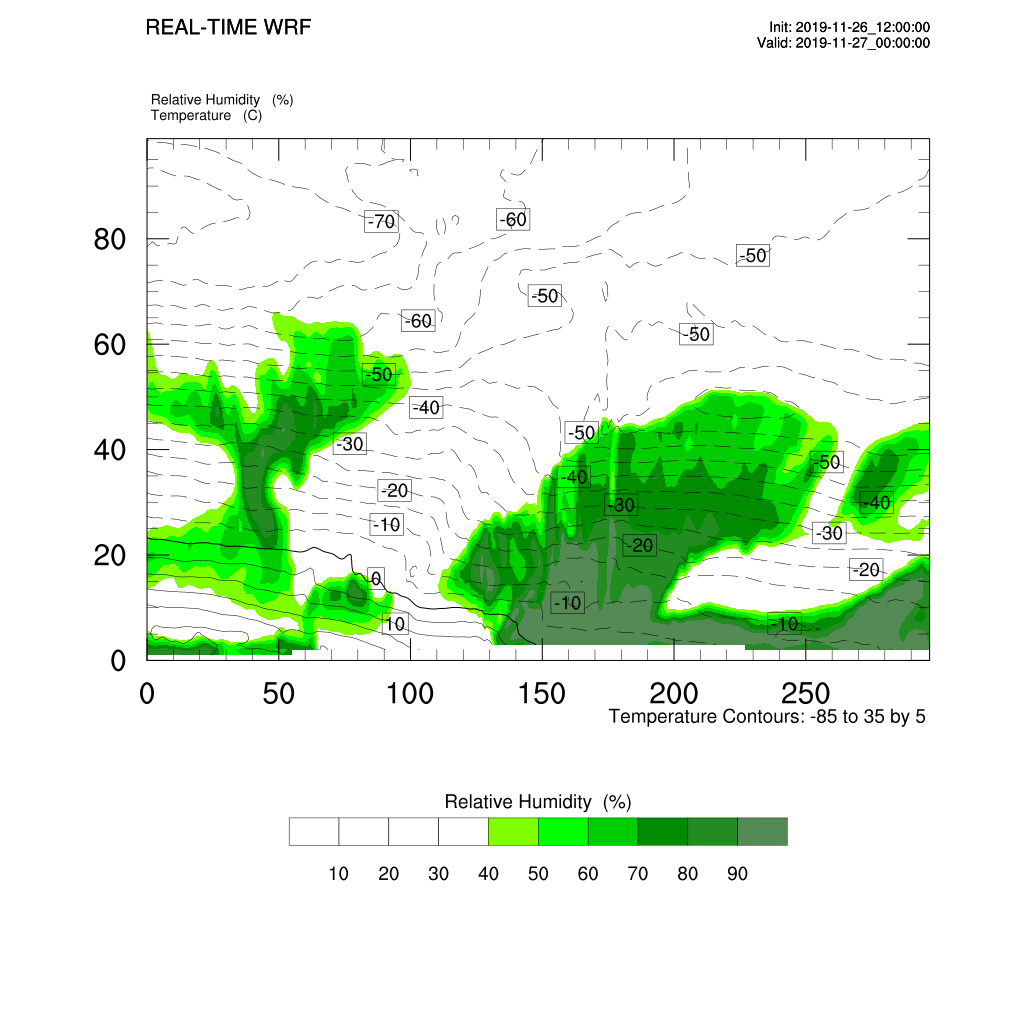
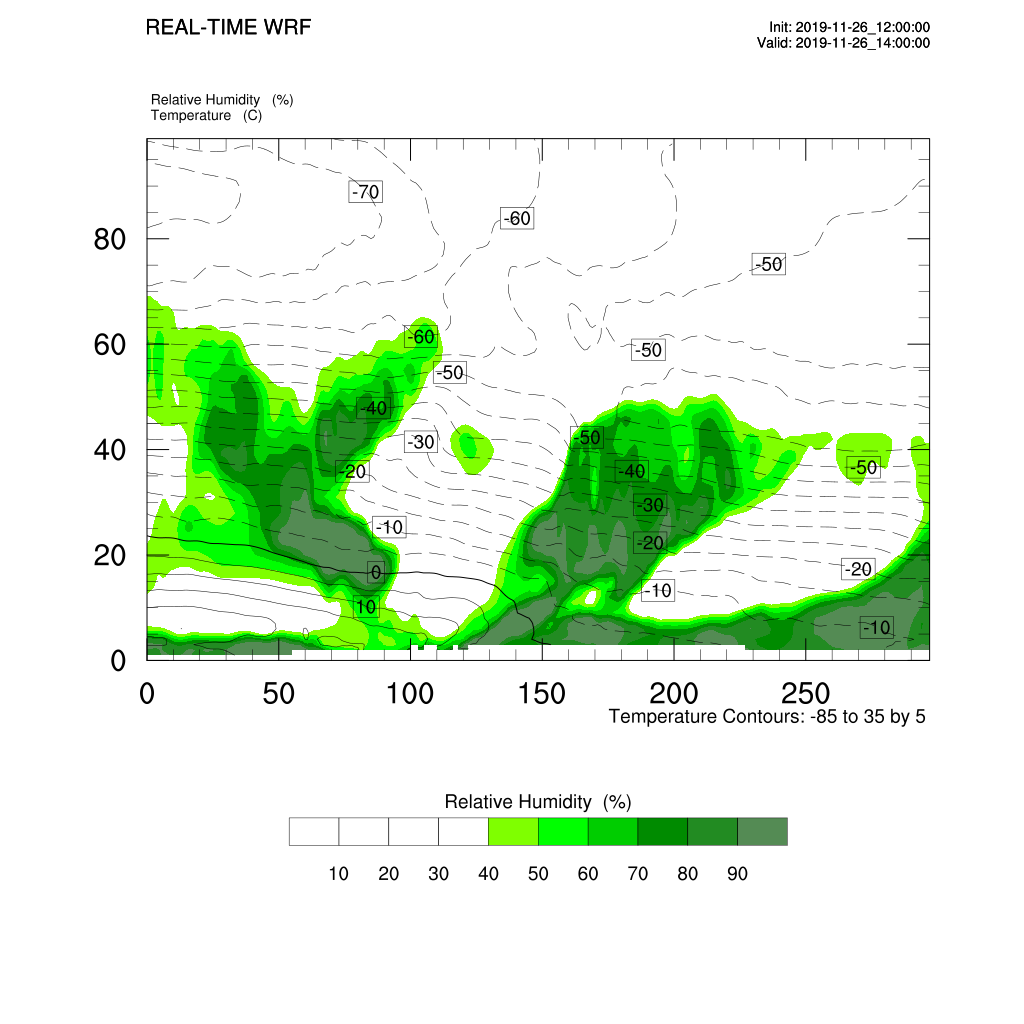
Updates for a large tutorial.
- WRF running on 1 instance, queue with mix instances c5.24xl+c5.18xl
- Adjust scaling down to 2 minutes instead of 10 minutes (6 hr forecast).
- Constraint PC config AZs.

diff --git a/content/03-hpc-aws-parallelcluster-workshop/04-configure-pc.md b/content/03-hpc-aws-parallelcluster-workshop/04-configure-pc.md
@@ -9,12 +9,13 @@ Now that you installed AWS ParallelCluster and set up the foundation, you can cr
 
 Generate the cluster with the following settings:
 
-- Head-node and compute nodes: [m5.2xlarge and hpc6a.48xlarge instances](https://aws.amazon.com/ec2/instance-types/c5/). You can change the instance type if you like, but you may run into EC2 limits that may prevent you from creating instances or create too many instances.
+- Head-node and compute nodes: [m5.2xlarge and c5.18xlarge instances](https://aws.amazon.com/ec2/instance-types/c5/). You can change the instance type if you like, but you may run into EC2 limits that may prevent you from creating instances or create too many instances.
 - AWS ParallelCluster (since version 2.9) supports multiple instance types and multiple queues.
 - We use a [placement group](https://docs.aws.amazon.com/AWSEC2/latest/UserGuide/placement-groups.html#placement-groups-cluster) in this lab. A placement group will spin up instances close together, in a single network spine, inside one physical data center located in a specific Availability Zone to maximize the bandwidth and reduce the latency between instances.
 - In this lab, the cluster has 0 compute nodes when starting and a maximum of 2 instances.  AWS ParallelCluster will grow and shrink between the min and max limits based on the cluster utilization and job queue backlog.
 - A [GP3 Amazon EBS](https://docs.aws.amazon.com/AWSEC2/latest/UserGuide/AmazonEBS.html) volume will be attached to the head-node then shared through NFS to be mounted by the compute nodes on `/shared`. It is generally a good location to store applications or scripts. Keep in mind that the `/home` directory is shared on NFS as well.
-- [Slurm](https://slurm.schedmd.com/overview.html) is used as a job scheduler
+- [Slurm](https://slurm.schedmd.com/overview.html) is used as a job scheduler.
+- We disable Intel Hyper-threading by setting `DisableSimultaneousMultithreading: true` in the configuration file.
 
 {{% notice tip %}}
 For more details about the AWS ParallelCluster configuration options, see the [AWS ParallelCluster User Guide](https://docs.aws.amazon.com/parallelcluster/latest/ug/cluster-configuration-file-v3.html).
@@ -83,12 +84,20 @@ Scheduling:
   SlurmQueues:
     - Name: queue0
       ComputeResources:
-        - Name: hpc6a48xlarge
+        - Name: c518xl
           MinCount: 0
           MaxCount: 2
-          InstanceType: hpc6a.48xlarge
+          InstanceType: c5.18xlarge
+          DisableSimultaneousMultithreading: true
           Efa:
-            Enabled: true
+            Enabled: false
+        - Name: c524xl
+          MinCount: 0
+          MaxCount: 2
+          InstanceType: c5.24xlarge
+          DisableSimultaneousMultithreading: true
+          Efa:
+            Enabled: false
       Networking:
         SubnetIds:
           - ${SUBNET_ID}

diff --git a/content/03-hpc-aws-parallelcluster-workshop/11-conus-12km.md b/content/03-hpc-aws-parallelcluster-workshop/11-conus-12km.md
@@ -62,8 +62,14 @@ ozone_lat.formatted,\
 ozone_plev.formatted} .
 ```
 
+Modify the namelist to run a shorter six hour forecast, instead of the default 12 hours.
+
+```bash
+sed -i 's/run_hours.*/run_hours                           = 6,/' namelist.input
+```
+
 #### Run the CONUS 12Km simulation
-In this step, you create the Slurm batch script that will run the WRF CONUS 12km test case on 192 cores distributed over 2 x hpc6a.48xlarge EC2 instances.
+In this step, you create the Slurm batch script that will run the WRF CONUS 12km test case on 192 cores distributed over 1 x c5.18xlarge EC2 instances.
 
 ```bash
 cat > slurm-wrf-conus12km.sh << EOF
@@ -73,11 +79,11 @@ cat > slurm-wrf-conus12km.sh << EOF
 #SBATCH --partition=queue0
 #SBATCH --output=%x_%j.out
 #SBATCH --error=%x_%j.err
-#SBATCH --ntasks=192
-#SBATCH --constraint=hpc6a.48xlarge
+#SBATCH --ntasks=36
+#SBATCH --nodes=1
 
 module purge
-module load wrf-omp/4.4.1-gcc-10.3.0
+module load wrf-omp/4.4.1-intel-2022.2.0
 
 mpirun wrf.exe
 EOF

diff --git a/content/03-hpc-aws-parallelcluster-workshop/13-visualize-results.md b/content/03-hpc-aws-parallelcluster-workshop/13-visualize-results.md
@@ -20,8 +20,14 @@ sudo yum install -y -q ncl
 cd /shared/conus_12km
 ```
 
-4. The provided `ncl_scripts/surface.ncl` script will generate two plots of surface fields at valid
-   time 2019-11-27 00:00. Use the space bar to advance to the next plot.
+4. Update the provided NCL scripts to plot the fields at 14:00 hrs 26/11/2019 since we shortened the forecast length.
+
+```bash
+sed -i 's/27_00/26_14/' ncl_scripts/surface.ncl
+sed -i 's/27_00/26_14/' ncl_scripts/vert_crossSection.ncl
+```
+
+5. Run `ncl` to generate two plots of surface fields.
 
 ```bash
 ncl ncl_scripts/surface.ncl
@@ -33,7 +39,7 @@ Use the space bar to advance to the next plot.
 
 ![Surface dew point](/images/sc22/plt_Surface1.000002.png)
 
-5. Generate a vertical profile of relative humidity (%) and temperature (K).
+6. Generate a vertical profile of relative humidity (%) and temperature (K).
 
 ```bash
 ncl ncl_scripts/vert_crossSection.ncl

diff --git a/content/03-hpc-aws-parallelcluster-workshop/12-run-wrf.md b/content/03-hpc-aws-parallelcluster-workshop/12-run-wrf.md
@@ -27,7 +27,7 @@ When ready and registered, your job will be processed and you will see a similar
 ```console
 [ec2-user@ip-172-31-27-78 conus_12km]$ squeue
              JOBID PARTITION     NAME     USER ST       TIME  NODES NODELIST(REASON)
-                 1    queue0 WRF-CONU ec2-user CF       0:21      2 queue0-dy-hpc6a48xlarge-[1-2]
+                 1    queue0 WRF-CONU ec2-user CF       0:21      1 queue0-dy-c524xl
 [ec2-user@ip-172-31-27-78 conus_12km]$
 ```
 
@@ -40,7 +40,7 @@ sinfo
 ```console
 [ec2-user@ip-172-31-27-78 conus_12km]$ sinfo
 PARTITION AVAIL  TIMELIMIT  NODES  STATE NODELIST
-queue0*      up   infinite      2 alloc# queue0-dy-hpc6a48xlarge-[1-2]
+queue0*      up   infinite      1 alloc# queue0-dy-c524xl
 [ec2-user@ip-172-31-27-78 conus_12km]$
 ```
 
